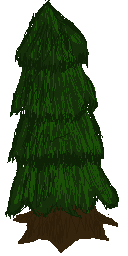
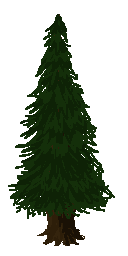
new sprites

diff --git a/core/src/com/mygdx/game/World.java b/core/src/com/mygdx/game/World.java
@@ -39,7 +39,7 @@ public class World {
 
         objectTypes = 2;
         objectTextures = new Texture[objectTypes];
-        objectTextures[0] = new Texture("viisi.png");
+        objectTextures[0] = new Texture("kuusi.png");
         objectTextures[1] = new Texture("marjaPuskaSlim.png");
 
         gen = new TerrainGenerator();
